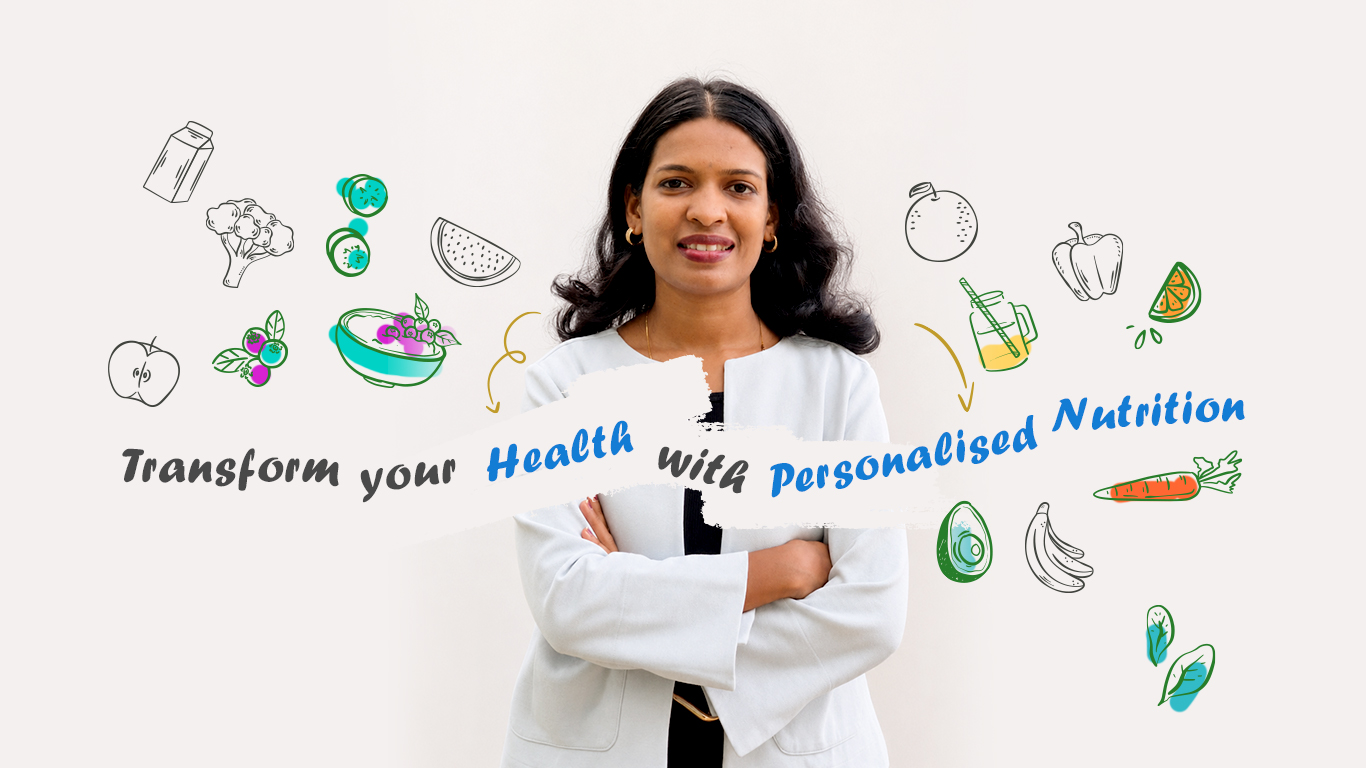
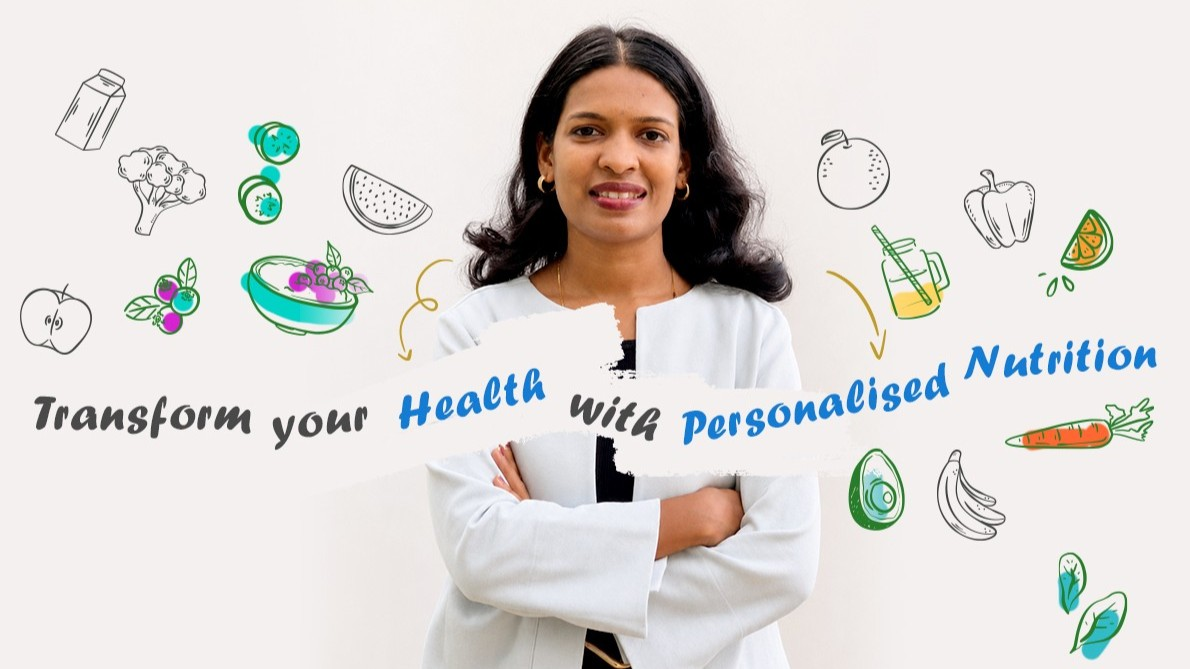
Hero Section Modified

diff --git a/Gauri_Diet_Clinic/index.html b/Gauri_Diet_Clinic/index.html
@@ -368,14 +368,16 @@
       }
       .hero-banner {
         position: relative;
-        width: 83%;
+        width: 100%;
         margin: 0 auto;
-        overflow: visible;
+        overflow: hidden;
+        aspect-ratio: 16 / 9;
       }
       .hero-banner img {
         display: block;
         width: 100%;
-        height: auto;
+        height: 100%;
+        object-fit: cover;
       }
       @keyframes heroFadeIn {
         to {
@@ -604,7 +606,8 @@
         .hero-banner {
           width: 100%;
           margin: 0 auto;
-          overflow: visible;
+          overflow: hidden;
+          aspect-ratio: 16 / 9;
         }
         .hero-cta-desktop-overlap {
           position: static;
@@ -1690,7 +1693,6 @@
                   width="800"
                   height="1000"
                 />
-                <div class="absolute inset-0 bg-obsidian/40"></div>
               </div>
               <div
                 class="hero-badge-float float-slow absolute -bottom-6 -right-6 lg:-bottom-8 lg:-right-8 w-36 h-36 lg:w-48 lg:h-48 bg-primary p-6 lg:p-8 flex flex-col items-center justify-center text-center gap-2"
